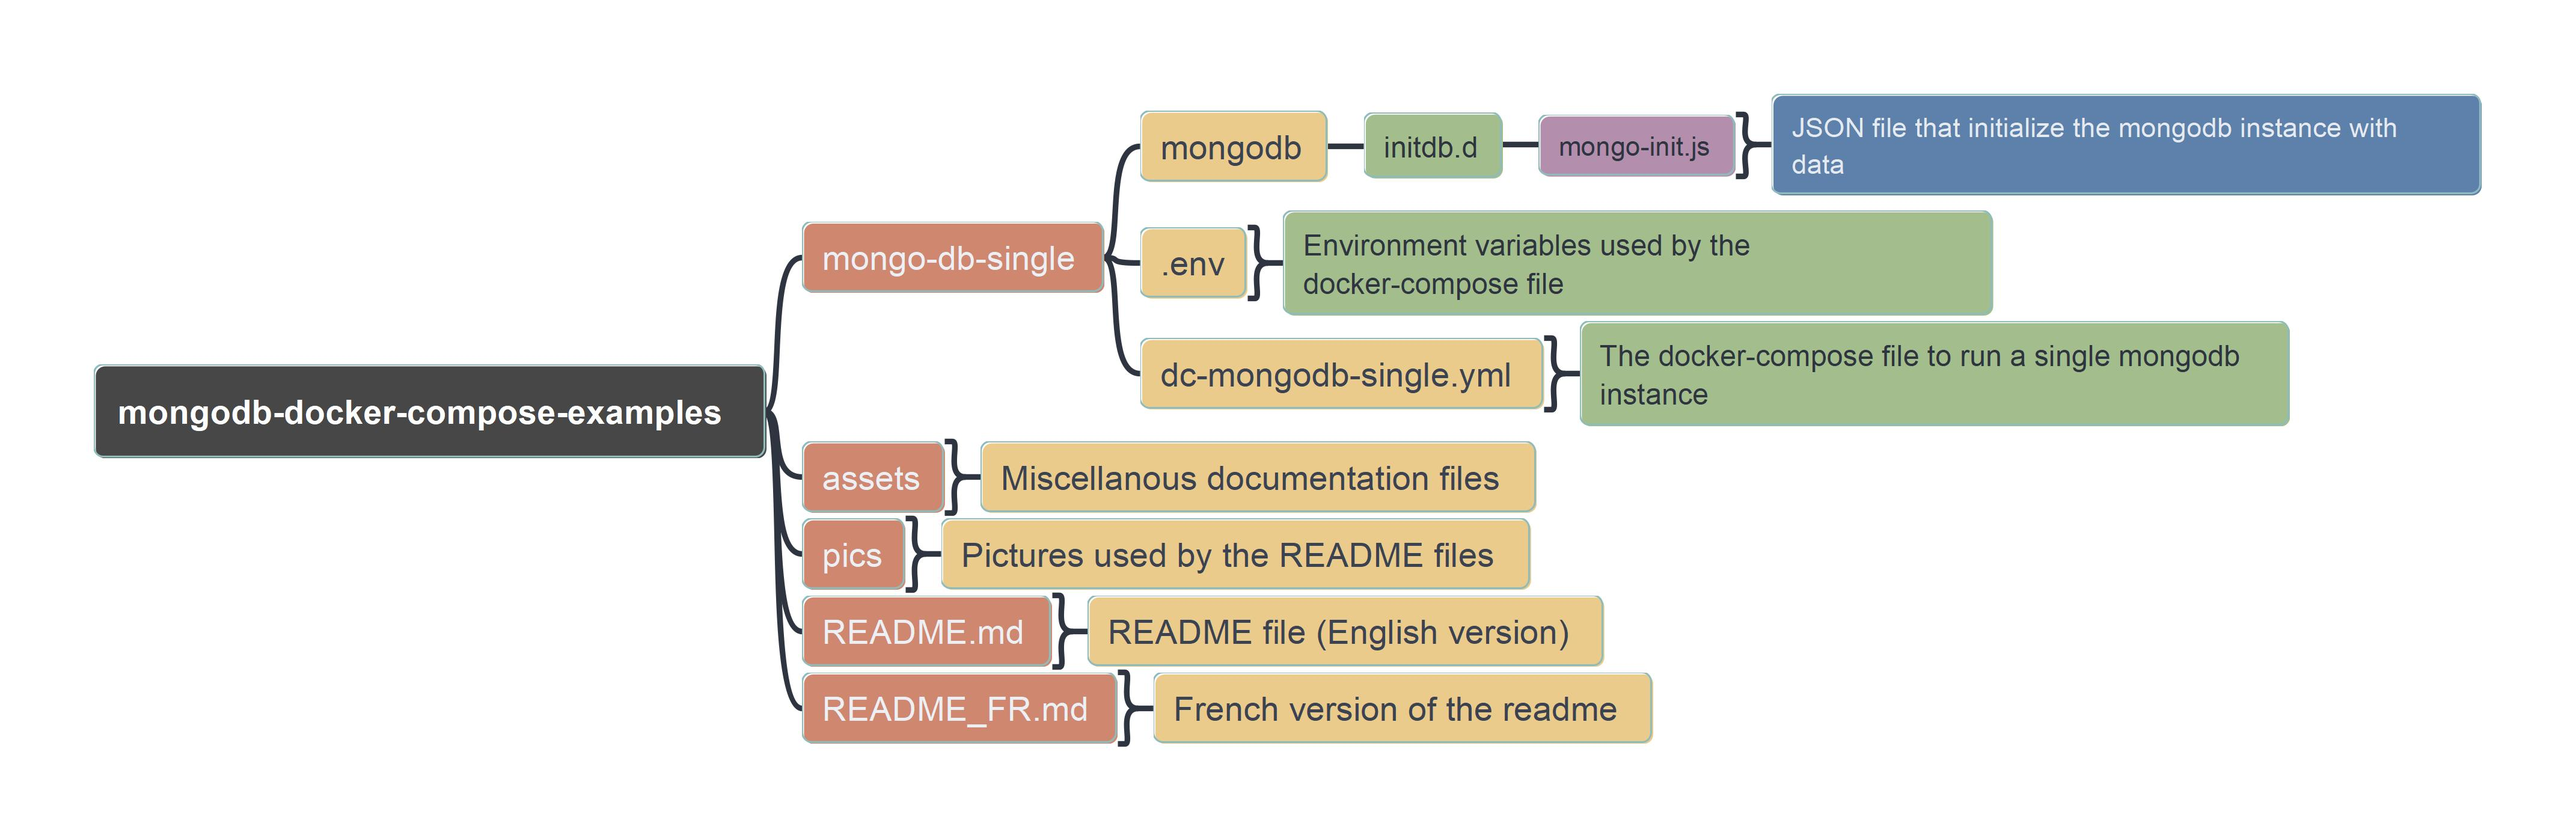
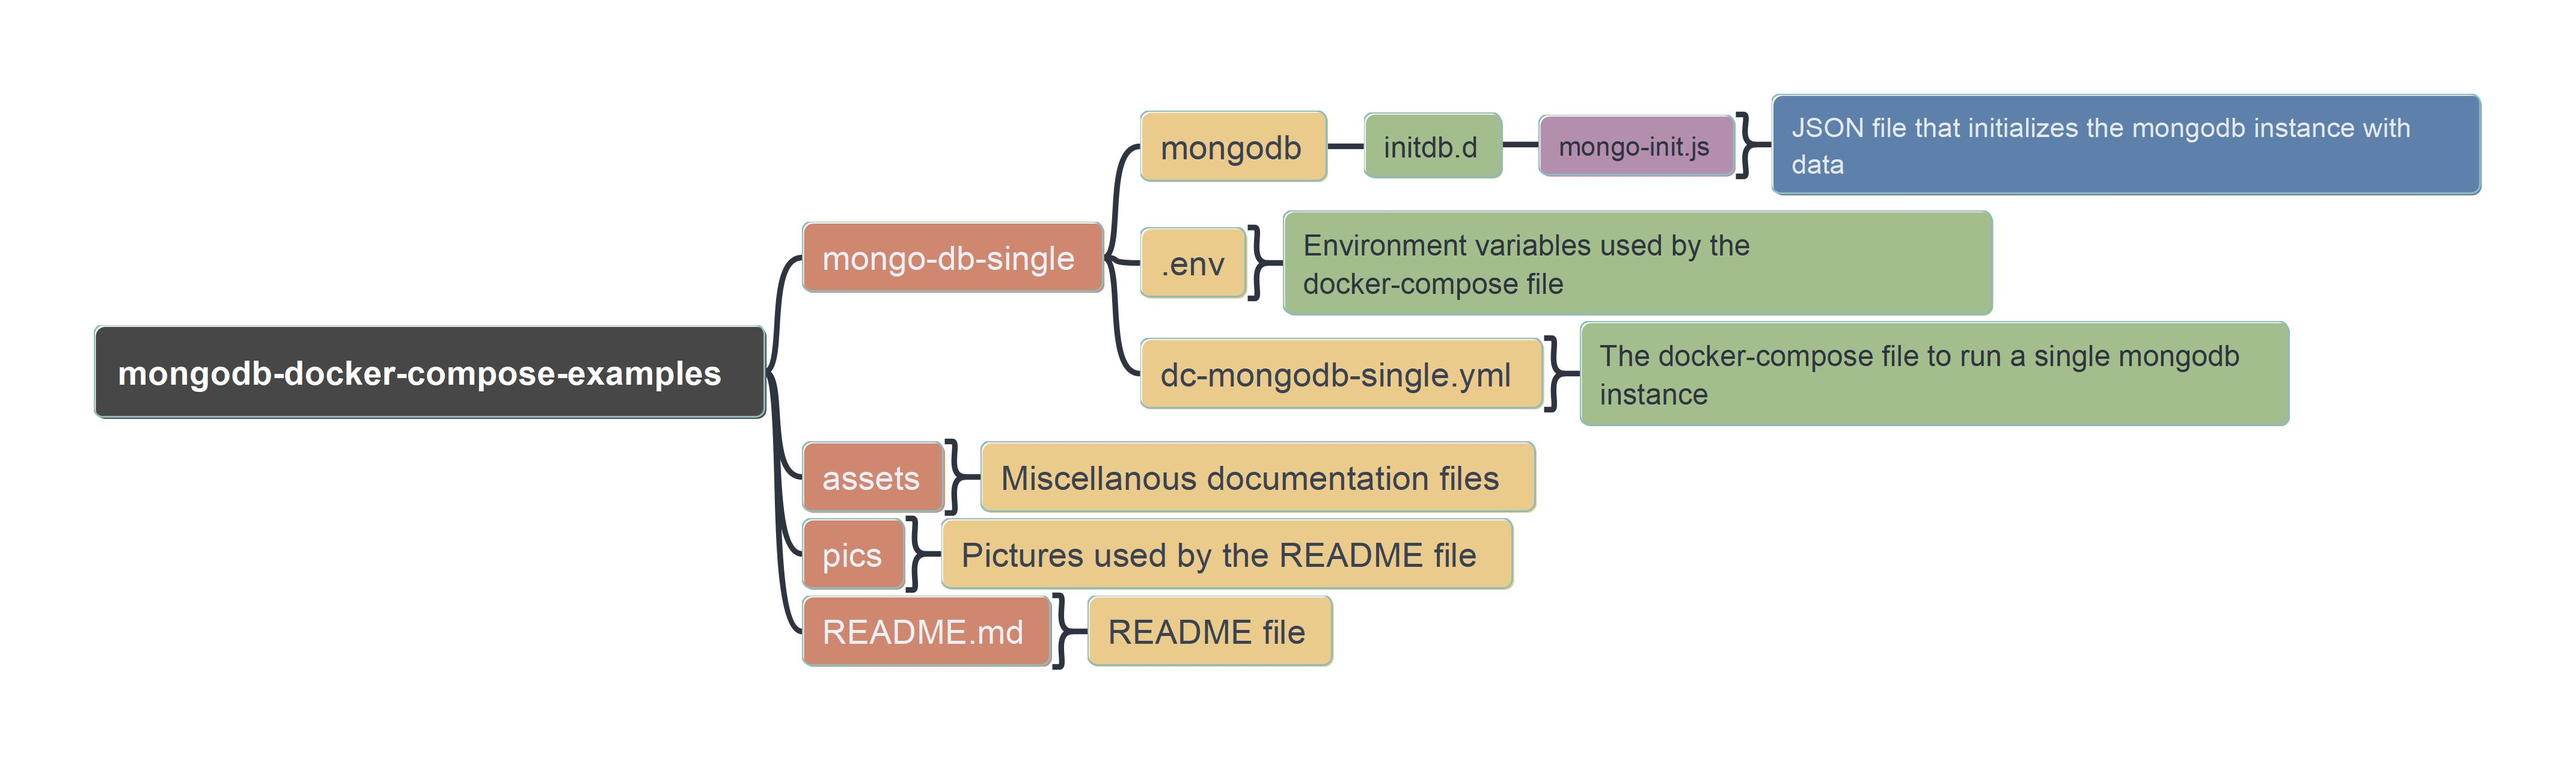
feat(mongodb-docker-compose)
Working on the article

Changed region(s): [[0.031, 0.0924, 0.9622, 0.8934], [0.031, 0.4005, 0.3104, 0.4929]]

diff --git a/mongodb-docker-compose-examples/assets/directory-structure.mm b/mongodb-docker-compose-examples/assets/directory-structure.mm
@@ -91,7 +91,7 @@
 <node TEXT="" ID="ID_238102398" CREATED="1708702398447" MODIFIED="1708702398450">
 <hook NAME="SummaryNode"/>
 <hook NAME="AlwaysUnfoldedNode"/>
-<node TEXT="JSON file that initialize the mongodb instance with data" ID="ID_1948762647" CREATED="1708702398451" MODIFIED="1708702439895"/>
+<node TEXT="JSON file that initializes the mongodb instance with data" ID="ID_1948762647" CREATED="1708702398451" MODIFIED="1708797507395"/>
 </node>
 </node>
 </node>
@@ -134,7 +134,7 @@
 <node TEXT="" POSITION="bottom_or_right" ID="ID_561582841" CREATED="1708702530452" MODIFIED="1708702530454">
 <hook NAME="SummaryNode"/>
 <hook NAME="AlwaysUnfoldedNode"/>
-<node TEXT="Pictures used by the README files" ID="ID_1797188113" CREATED="1708702530458" MODIFIED="1708702545215"/>
+<node TEXT="Pictures used by the README file" ID="ID_1797188113" CREATED="1708702530458" MODIFIED="1708797495531"/>
 </node>
 <node TEXT="" POSITION="bottom_or_right" ID="ID_1290367073" CREATED="1708702313274" MODIFIED="1708702313274">
 <hook NAME="FirstGroupNode"/>
@@ -145,18 +145,7 @@
 <node TEXT="" POSITION="bottom_or_right" ID="ID_123759240" CREATED="1708702313272" MODIFIED="1708702313274">
 <hook NAME="SummaryNode"/>
 <hook NAME="AlwaysUnfoldedNode"/>
-<node TEXT="README file (English version)" ID="ID_376695135" CREATED="1708702313276" MODIFIED="1708702325713"/>
-</node>
-<node TEXT="" POSITION="bottom_or_right" ID="ID_1012458539" CREATED="1708702288669" MODIFIED="1708702288669">
-<hook NAME="FirstGroupNode"/>
-</node>
-<node TEXT="README_FR.md" POSITION="bottom_or_right" ID="ID_1931839840" CREATED="1708702176890" MODIFIED="1708702797721">
-<font SIZE="14"/>
-</node>
-<node TEXT="" POSITION="bottom_or_right" ID="ID_1897394966" CREATED="1708702288666" MODIFIED="1708702288669">
-<hook NAME="SummaryNode"/>
-<hook NAME="AlwaysUnfoldedNode"/>
-<node TEXT="French version of the readme" ID="ID_715315061" CREATED="1708702288670" MODIFIED="1708702304951"/>
+<node TEXT="README file" ID="ID_376695135" CREATED="1708702313276" MODIFIED="1708797486633"/>
 </node>
 </node>
 </map>

diff --git a/mongodb-docker-compose-examples/README.md b/mongodb-docker-compose-examples/README.md
@@ -1,6 +1,6 @@
 # MongoDB
 
-This small project provides a docker compose file and a directory structure that create a local environment for mongodb that can be used for developement and experimentation purposes.
+This small project provides a _docker compose file_ and a minimalist directory structure that creates a local environment for the [MongoDB](https://www.mongodb.com/) database to be used for developement and experimentation.
 Do not use this directly in a production enviroment or at your own risk !
 Two containers are provided :
 
@@ -12,9 +12,9 @@ However it should work on Windows, Mac and Linux, with Docker, Docker Desktop or
 
 In all cases you need to have a container engine compatible with docker and `docker compose` available in the command line.
 
-With MongoDB, on the container, [MongoDB Shell](https://www.mongodb.com/try/download/shell) is available. However, you can install it directly on your laptop to access any MongoDB instance accessible on your network if you wish so.
+On the container with the [MongoDB](https://www.mongodb.com/) database engine, there is also [MongoDB Shell](https://www.mongodb.com/try/download/shell). However, you can install it directly on your PC to access any MongoDB instances accessible on your network if you wish so.
 
-You can also install and use [Compass](https://www.mongodb.com/products/tools/compass). Compass is graphical client to connect to MongoDB instances.
+You can also install and use [Compass](https://www.mongodb.com/products/tools/compass). Compass is a graphical client to connect to MongoDB instances.
 
 ## Running the containers with the MongoDB instance
 
@@ -24,13 +24,13 @@ To run the containers and the associated **MongoDB** instance with `docker compo
 docker compose -f dc-mongodb-single.yml up -d
 ```
 
-## Accessing MongoDB with the CLI in the container
-
 ![Running docker compose with the dc-mongodb-single.yml](./pics/simple-docker-compose-4-single-node-mongodb-001.png "Running docker compose with the dc-mongodb-single.yml")
 
 In Docker Desktop, Rancher Desktop or Podman Desktop you should be able to see the container running (in the following screenshot it is with Podman Desktop).
 
 ![The container running with Podman Desktop](./pics/simple-docker-compose-4-single-node-mongodb-002.png "The container running with Podman Desktop")
+
+### Accessing MongoDB with the CLI in the container
 
 To check that all is ok, you can open a shell on the container and connect to the MongoDB instance with the CLI by running `mongosh` as described thereafter :
 
@@ -41,9 +41,9 @@ To check that all is ok, you can open a shell on the container and connect to th
 
 ![Connection to MongoDB with the CLI from a shell open on the container](./pics/simple-docker-compose-4-single-node-mongodb-003.png "Connection to MongoDB with the CLI from a shell open on the container")
 
-* To be connected as the user defined in the `mongo-init.js` file (`jon_snow`)
+* To be connected as the user defined in the `mongo-init.js` file (`jon_snow`) :
   * `mongosh got_db -u "jon_snow" -p`
-    * You has then to type the password for the user `jon_snow` in the `mongo-init.js` file (the password is `ygritte` by the way)
+    * You has then to type the password specified for the user `jon_snow` in the `mongo-init.js` file (the password is `ygritte` by the way)
   * You can express a query against the database : `db.got_seasons_collection.find({}, { season : 1, year : 1 })`
 
 ![Connection to MongoDB with the CLI from a shell open on the container](./pics/simple-docker-compose-4-single-node-mongodb-003.png "Connection to MongoDB with the CLI from a shell open on the container")
@@ -54,17 +54,25 @@ If you want to stop the containers, you just have to execute in the command line
 docker compose -f dc-mongodb-single.yml down
 ```
 
-## Accessing MongoDB with mongo-express
+### Accessing MongoDB with mongo-express
+
+You have to access with your browser on the url `http:\\localhost:8081`. You will be prompted to enter a login and a password : you type the value défined for `MONGO_EXPRESS_USERNAME` and `MONGO_EXPRESS_PASSWORD` in the `.env` file.
+
+![Connection to mongo-express - basic authentication popup](./pics/mongo-express-connection-001.png "Connection to mongo-express - basic authentication popup")
+
+You then have access to the `mongo-express` Web UI connected to your local MongoDB instance.
+
+![Connection to mongo-express](./pics/mongo-express-connection-002.png "Connection to mongo-express")
 
 ## Installing MongoDB Shell on your computer and using it to connect to the MongoDB instance
 
 You can download and install [Mongosh](https://www.mongodb.com/try/download/shell) directly on you PC.
 It is available as a zip archive, you just have to unzip it wherever it suits you and add the bin directory with the `mongosh` executable in you path.
-You then should be able to connect with mongosh to any instance of MongoDB if you provides the correct parameters.
+You then should be able to connect with `mongosh` to any instance of MongoDB if you provides the correct parameters.
 If you just type `mongosh` in a terminal, by default it will try to connect to a MongoDB instance on `127.0.0.1` and port `27017`.
 If your instance is up it will connect to it but you cannot do much because you will not be authenticated.
 
-![Connecting to MongoDB with mongosh with providing any parameters](./pics/mongosh-from-terminal-001.png "Connecting to MongoDB with mongosh with providing any parameters")
+![Connecting to MongoDB with mongosh with providing any parameters](./pics/mongosh-from-terminal-001.png "Connecting to MongoDB with mongosh without providing any parameters")
 
 So if we want to authenticate as user `jon_snow` which has rights on the database `got_db`, first we will switch to this database and then authenticate within the shell :
 
@@ -72,6 +80,8 @@ So if we want to authenticate as user `jon_snow` which has rights on the databas
 use got_db
 db.auth("jon_snow", "ygritte")
 ```
+
+You are now connected as user `jon_snow` and can express query against the database (for exeample `db.got_seasons_collection.find({}, { season : 1, year : 1 })`).
 
 ## Installing Compass and using it to accessing MongoDB
 
@@ -93,7 +103,7 @@ You can now connect directly or save the connection to not have to type the info
 
 ## Some explanations
 
-Some explanations about the docker-compose file, the directory structure and the initialisation data.
+Some explanations about the _docker compose file_, the directory structure and the initialisation data.
 
 ### Directory structure
 
@@ -103,7 +113,7 @@ Some explanations about the docker-compose file, the directory structure and the
 
 ![The docker-compose file](./pics/docker-compose-file.png "The docker-compose file")
 
-### Initialisation
+### Data initialization
 
 ## Ressources
 
